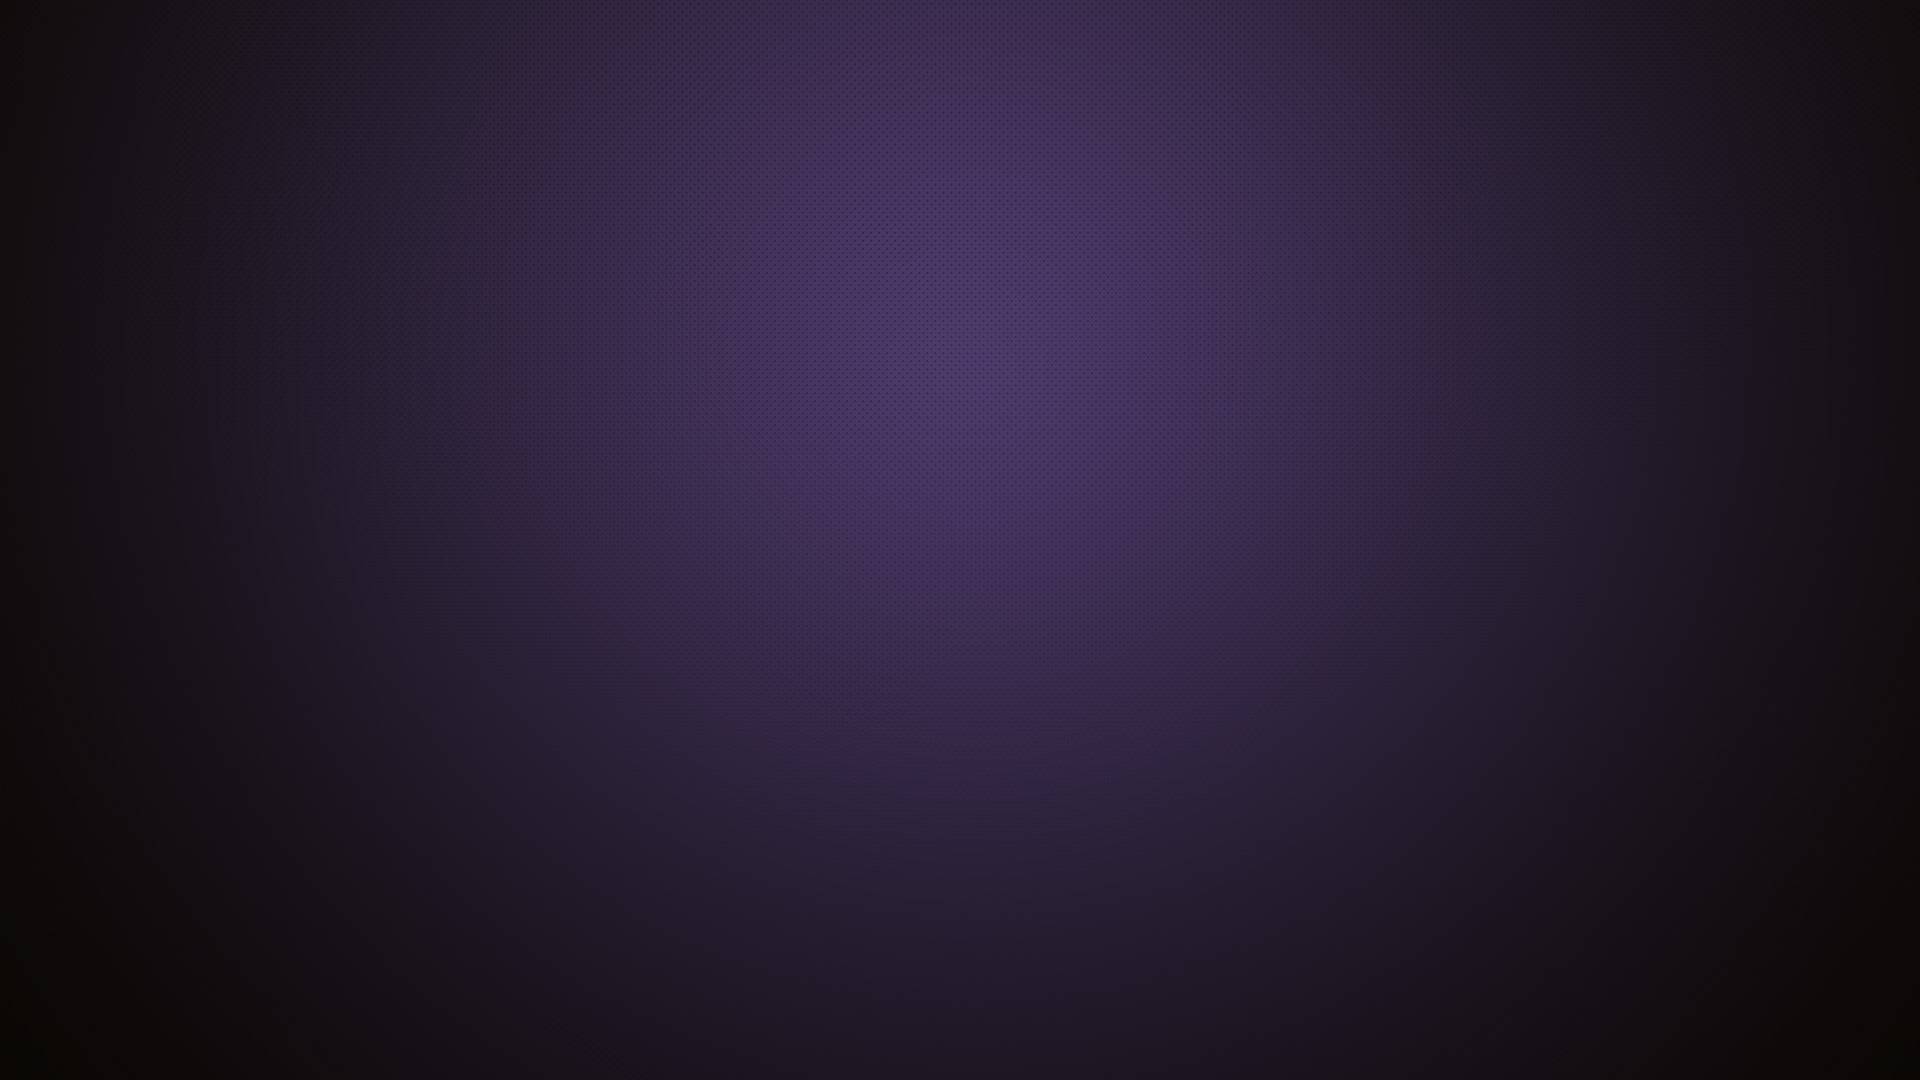
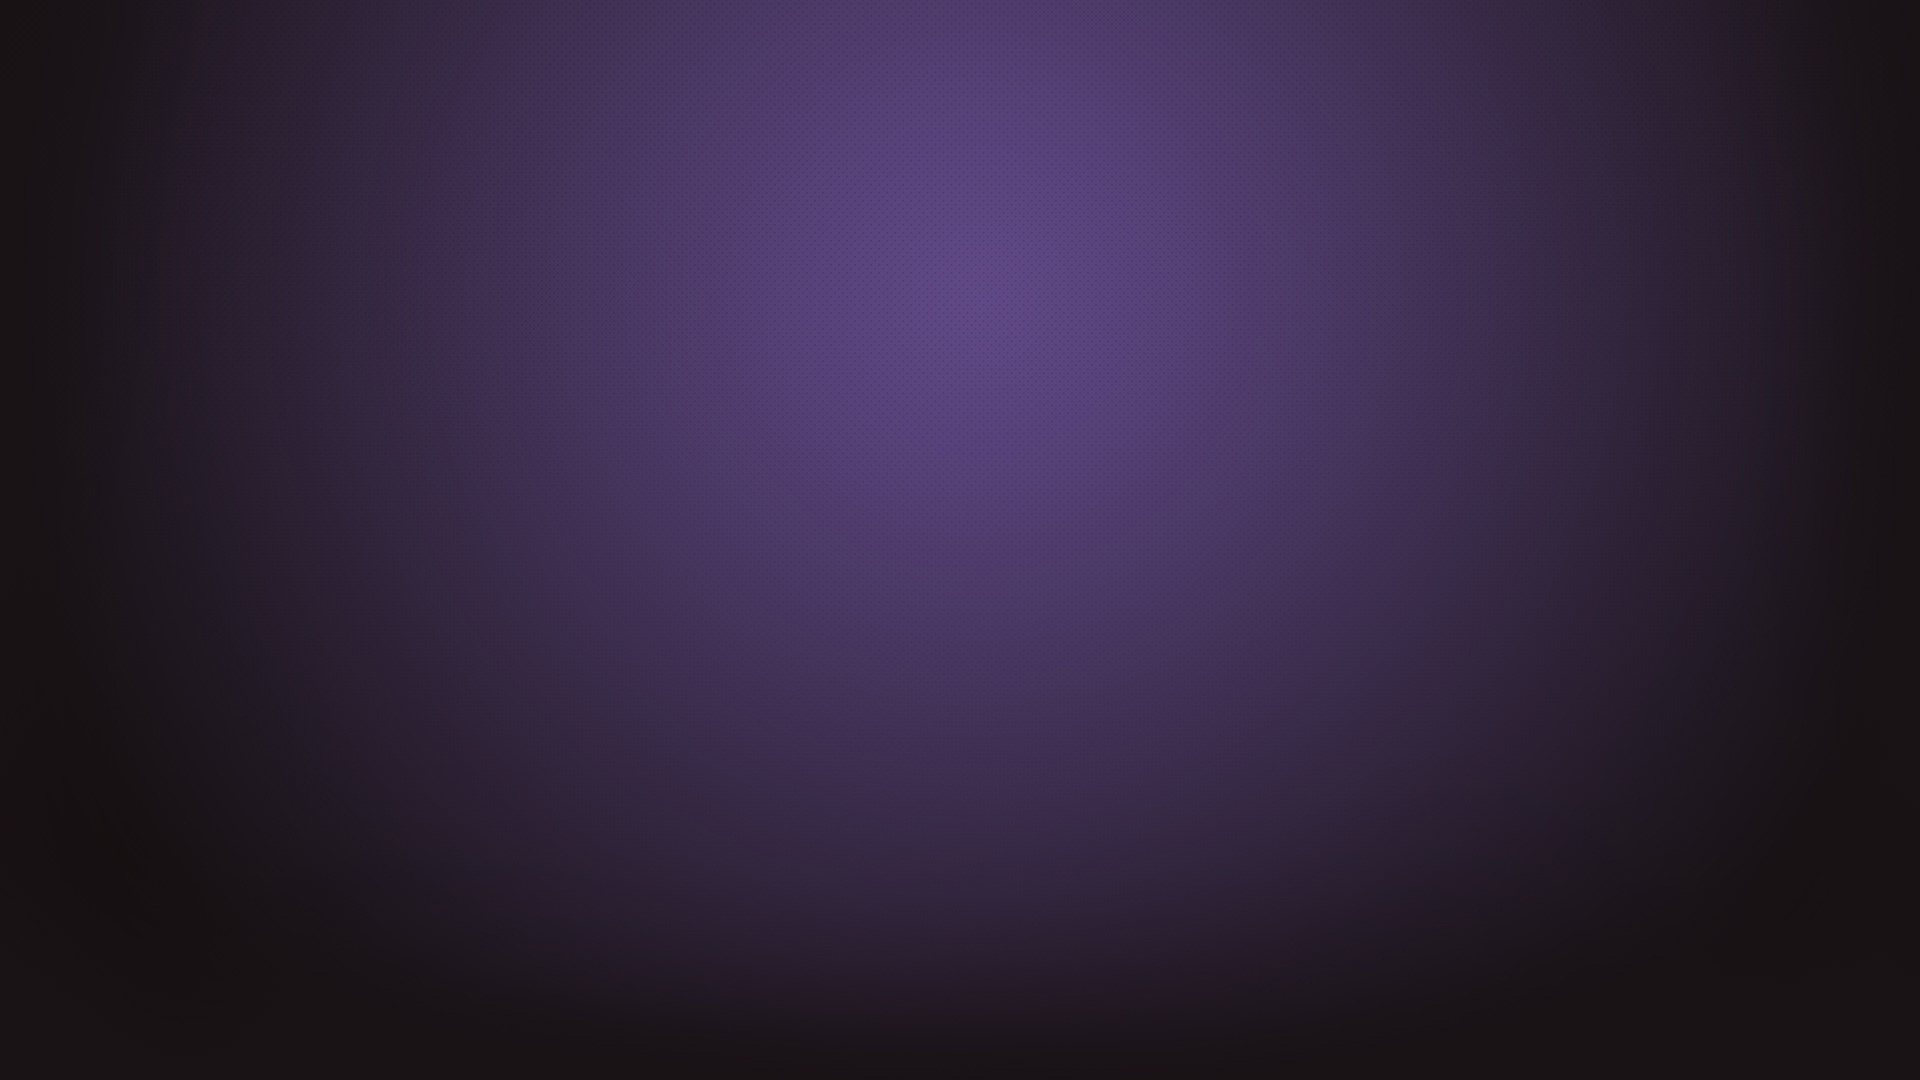
hc

Changed region(s): [[0.2812, 0.0, 0.75, 0.4889]]

diff --git a/public/stylesheets/index.css b/public/stylesheets/index.css
@@ -3,9 +3,77 @@ body.init{
 	background-color: #ebedf0;
 }
 body.wrapper{
-	background: #000 url('../images/bg.jpg') center center no-repeat;
+	background: #191215  url('../images/bg.jpg') center center no-repeat;
 }
-#token_area{display:none;}
+.papa-wrapper{
+	display: none;
+	width: 900px;
+	height: 560px;
+	margin: 0 auto;
+	padding: 20px 0;
+}
+.papa-wrapper h1{
+	width: 500px;
+	height: 40px;
+	margin: 0 auto;
+	background: url('../images/sprites.png') no-repeat 0px 0px;
+	overflow: hidden;
+	text-indent: -9999px;
+
+}
+.papa-wrapper .logo{
+	width: 400px;
+	height: 260px;
+	margin: 55px auto 0;
+	background: url('../images/sprites.png') no-repeat 0px -120px;
+	overflow: hidden;
+}
+.papa-wrapper #find_phone{
+	display: block;
+	width: 196px;
+	height: 60px;
+	margin: 100px auto 0;
+	background: url('../images/sprites.png') no-repeat 12px -650px;
+	overflow: hidden;
+	text-indent: -9999px;
+}
+.papa-wrapper #token_area{
+	display:none;
+	width: 400px;
+	height: 160px;
+	margin: 0 auto;
+}
+.papa-wrapper .token{
+	font-size: 12px;
+	height: 60px;
+	margin-top: 20px;
+	text-align: center;
+	color: #e2bb3c;
+	-webkit-text-stroke: .4px #b35607;
+}
+.papa-wrapper .action{
+	width: 420px;
+	margin: 20px auto 0;
+	height: 60px;
+}
+.papa-wrapper .action #token_yes{
+	display: block;
+	width: 196px;
+	height: 60px;
+	float: left;
+	background: url('../images/sprites.png') no-repeat 12px -410px;
+	overflow: hidden;
+	text-indent: -9999px;
+}
+.papa-wrapper .action #token_no{
+	display: block;
+	width: 196px;
+	height: 60px;
+	float: right;
+	background: url('../images/sprites.png') no-repeat 12px -530px;
+	overflow: hidden;
+	text-indent: -9999px;
+}
 a.disable{color:red;cursor:default;}
 .beat-wrapper{
 	position: relative;
@@ -13,7 +81,4 @@ a.disable{color:red;cursor:default;}
 	height: 400px;
 	left: 50%;
 	margin-left: -150px;
-}
-.papa-wrapper{
-	display: none;
 }
